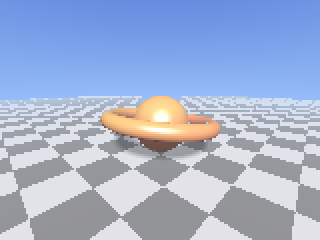
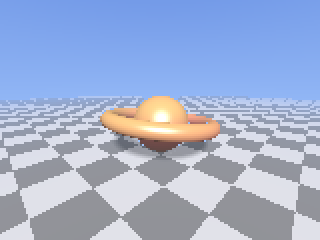
Use structs in the examples; document them
The ray marcher now does its vector math with a Vec3 struct and operators
(same speed as the hand-flattened version), the particle fountain and the
game keep their state in arrays of structs, and the playground's reference
and highlighter know about structs. The prelude drops its two-argument
length() so programs can define length(v) for their own vector types.

Codegen gains a peephole that fuses local.set x; local.get x into
local.tee x.

Claude-Session: https://claude.ai/code/session_01JN52o72BR9hMKBv8zXyzPn

Changed region(s): [[0.5625, 0.3792, 1.0, 0.4667], [0.0, 0.3792, 0.4688, 0.4667]]

diff --git a/web/index.html b/web/index.html
@@ -69,7 +69,21 @@ const N = 64;         // compile-time constant
 var grid: [int; N * N];   // arrays live at top level
 let pal = [0xff0000, 0x00ff00];
 let s = "text";       // strings: len(s), s[i] gives a byte</pre>
-        <p>Types: <code>int</code> (32-bit), <code>float</code> (64-bit), <code>bool</code>, <code>str</code>. Nothing converts silently: write <code>x as float</code>. Integer literals do adapt to floats, so <code>x * 2</code> works.</p>
+        <p>Types: <code>int</code> (32-bit), <code>float</code> (64-bit), <code>bool</code>, <code>str</code>, and your own structs. Nothing converts silently: write <code>x as float</code>. Integer literals do adapt to floats, so <code>x * 2</code> works.</p>
+        <h3>Structs</h3>
+        <pre>struct Vec2 { x: float, y: float }
+struct Ball { pos: Vec2, vel: Vec2, color: int }
+
+var balls: [Ball; 64];          // arrays of structs
+const UP = Vec2(0.0, 1.0);      // built like a call
+
+fn length(v: Vec2) -> float { return sqrt(v.x * v.x + v.y * v.y); }
+
+var b = Ball(Vec2(10, 20), UP * 3.0, 0xff8800);
+b.pos += b.vel * dt;            // component-wise math
+balls[0] = b;                   // structs are values: this copies
+balls[0].vel.y -= 1.0;</pre>
+        <p>Structs whose fields are all floats (or all ints) support <code>+ - * / %</code> with each other and with a single number. Any struct supports <code>==</code> and <code>!=</code>. <code>print(v)</code> shows <code>Vec2(1.0, 2.0)</code>.</p>
         <h3>Control flow</h3>
         <pre>if a &lt; b { } else if c { } else { }
 while cond { break; continue; }
@@ -80,7 +94,7 @@ let m = a &gt; b ? a : b;</pre>
         <p><code>+ - * / %</code> · <code>== != &lt; &lt;= &gt; &gt;=</code> · <code>&amp;&amp; || !</code> · <code>&amp; | ^ ~ &lt;&lt; &gt;&gt; &gt;&gt;&gt;</code> · compound <code>+=</code> etc. Bitwise operators bind tighter than comparisons.</p>
         <h3>Built in</h3>
         <dl>
-          <dt>Math</dt><dd>sqrt floor ceil trunc round abs min max clamp sin cos tan asin acos atan atan2 exp log pow fract mix smoothstep sign length</dd>
+          <dt>Math</dt><dd>sqrt floor ceil trunc round abs min max clamp sin cos tan asin acos atan atan2 exp log pow fract mix smoothstep sign</dd>
           <dt>Drawing</dt><dd>pixel(x, y, c) · get_pixel(x, y) · clear(c) · rect(x, y, w, h, c) · circle(x, y, r, c) · line(x0, y0, x1, y1, c) · the <code>screen</code> array</dd>
           <dt>Color</dt><dd>rgb(r, g, b) with ints 0..255 · rgbf(r, g, b) with floats 0..1 · hsv(h, s, v) · blend(a, b, t)</dd>
           <dt>Text</dt><dd>text(x, y, s, c) · text_big(x, y, s, size, c) · number(x, y, n, c) · text_width(s) · print(a, b, ...)</dd>

diff --git a/web/highlight.js b/web/highlight.js
@@ -1,6 +1,6 @@
 // Syntax highlighting for Kiln source and WAT listings, producing HTML.
 
-const KEYWORDS = new Set(['fn', 'let', 'var', 'const', 'if', 'else', 'while', 'for', 'in', 'break', 'continue', 'return', 'true', 'false', 'as', 'export']);
+const KEYWORDS = new Set(['fn', 'let', 'var', 'const', 'if', 'else', 'while', 'for', 'in', 'break', 'continue', 'return', 'true', 'false', 'as', 'export', 'struct']);
 const TYPES = new Set(['int', 'float', 'bool', 'str']);
 
 const TOKEN = /(\/\/[^\n]*|\/\*[\s\S]*?(?:\*\/|$))|("(?:[^"\\\n]|\\.)*"?)|(0[xX][0-9a-fA-F_]*|0[bB][01_]*|\d[\d_]*(?:\.\d[\d_]*)?(?:[eE][+-]?\d+)?)|([A-Za-z_]\w*)|(\s+)|([\s\S])/g;
@@ -22,6 +22,7 @@ function kilnTokens(src) {
       if (KEYWORDS.has(ident)) cls = 'k';
       else if (TYPES.has(ident)) cls = 't';
       else if (/^[A-Z][A-Z0-9_]+$/.test(ident)) cls = 'u';
+      else if (/^[A-Z]/.test(ident)) cls = 't'; // struct names, by convention
       else if (src[TOKEN.lastIndex] === '(') cls = 'f';
     } else if (space) cls = '';
     else cls = 'p';

diff --git a/src/codegen.js b/src/codegen.js
@@ -360,6 +360,15 @@ class FnGen {
   emit(name, ...args) {
     const def = OPS[name];
     if (!def) throw new Error(`unknown opcode ${name}`);
+    // Peephole: `local.set x; local.get x` is exactly `local.tee x`.
+    const prev = this.prev;
+    if (name === 'local.get' && prev && prev.name === 'local.set' && prev.arg === args[0]) {
+      this.code.bytes[prev.pos] = OPS['local.tee'][0];
+      this.lines[prev.line] = this.lines[prev.line].replace('local.set', 'local.tee');
+      this.prev = null;
+      return;
+    }
+    this.prev = { name, arg: args[0], pos: this.code.length, line: this.lines.length };
     if (name === 'end' || name === 'else') this.depth--;
     let text = name;
     for (const part of def) {

diff --git a/src/prelude.js b/src/prelude.js
@@ -209,10 +209,6 @@ fn sign(x: float) -> float {
   return x > 0.0 ? 1.0 : (x < 0.0 ? -1.0 : 0.0);
 }
 
-fn length(x: float, y: float) -> float {
-  return sqrt(x * x + y * y);
-}
-
 // ---- deterministic randomness
 
 fn hash(n: int) -> int {

diff --git a/README.md b/README.md
@@ -2,7 +2,7 @@
 
 **A tiny statically typed language that compiles straight to WebAssembly, with a live-coding pixel playground.**
 
-Kiln's compiler is under 3,000 lines of dependency-free JavaScript. It lexes, parses, type-checks and
+Kiln's compiler is about 3,300 lines of dependency-free JavaScript. It lexes, parses, type-checks and
 then writes the WebAssembly binary *byte by byte*: no LLVM, no Binaryen, no `wat2wasm`. It is fast
 enough to recompile on every keystroke, so the playground feels like a fantasy console: type
 code on the left and watch it run at native speed on a 320×240 screen on the right.
@@ -89,7 +89,7 @@ fn main() {
 }
 ```
 
-- **Types:** `int` (i32), `float` (f64), `bool`, `str`, plus fixed-size global arrays of `int`, `float` or `bool`.
+- **Types:** `int` (i32), `float` (f64), `bool`, `str`, structs, and fixed-size global arrays of any of those except `str`.
 - **No silent conversions.** `int + float` is an error that suggests `as float`. One concession for
   comfort: integer *literals* (and untyped integer constants) adapt to float context, so `x * 2` works when `x` is a float.
 - **`let` is immutable, `var` is mutable.** Assigning to a `let` is a compile error with a fix-it hint.
@@ -101,6 +101,58 @@ fn main() {
 - **The standard prelude is written in Kiln** ([`src/prelude.js`](src/prelude.js)): `pixel`, `rect`, `circle`, Bresenham
   `line`, `hsv`, `blend`, a 3×5 bitmap font for `text` and `number`, integer `hash`, value `noise` and `fbm`.
   It's compiled together with your program, and whatever you don't use is stripped.
+
+### Structs
+
+```rust
+struct Vec2 { x: float, y: float }
+struct Ball { pos: Vec2, vel: Vec2, color: int }
+
+const GRAVITY = Vec2(0.0, 260.0);   // constructed like a call, folded at compile time
+var balls: [Ball; 100];             // arrays of structs
+
+fn length(v: Vec2) -> float { return sqrt(v.x * v.x + v.y * v.y); }
+
+fn step(dt: float) {
+  for i in 0..len(balls) {
+    var b = balls[i];               // structs are values: this is a copy
+    b.vel += GRAVITY * dt;          // component-wise math
+    b.pos += b.vel * dt;
+    if b.pos.y > 239.0 { b.vel.y *= -0.8; }
+    balls[i] = b;                   // write it back
+  }
+}
+```
+
+- Structs are **values**, like numbers: assigning or passing one copies it. There are no pointers and no heap.
+- Structs whose fields are all floats (or all ints) get **component-wise** `+ - * / %`, with each other or with a
+  single number on either side, GLSL-style. Any struct supports `==` and `!=`.
+- `print(v)` shows a struct the way you'd construct it: `Ball(Vec2(1.0, 2.0), Vec2(0.0, 0.0), 16746496)`.
+
+Under the hood, a struct is **flattened into its scalar fields**. A `Vec2` local is two wasm locals, a `Vec2` parameter
+is two wasm parameters, and a function returning one uses wasm's multi-value returns. So vector math costs exactly what
+the scalar version would. This function:
+
+```rust
+export fn add(a: Vec2, b: Vec2) -> Vec2 { return a + b; }
+```
+
+compiles to two additions, with no memory traffic and no temporaries:
+
+```wasm
+(func $add (export "add") (param $a.x f64) (param $a.y f64) (param $b.x f64) (param $b.y f64) (result f64 f64)
+  local.get $a.x
+  local.get $b.x
+  f64.add
+  local.get $a.y
+  local.get $b.y
+  f64.add
+  return
+)
+```
+
+Arrays of structs are laid out in linear memory with natural alignment, and `balls[i].vel.y` compiles to one bounds
+check plus a single `f64.load` at a constant offset.
 
 ### Friendly errors
 
@@ -132,6 +184,7 @@ source ──lex──▶ tokens ──parse──▶ AST ──check──▶ t
 | [`src/lexer.js`](src/lexer.js) | Tokens with spans; hex/binary/underscored literals, escapes, block comments |
 | [`src/parser.js`](src/parser.js) | Recursive descent for statements, precedence climbing for expressions |
 | [`src/checker.js`](src/checker.js) | Name resolution, type inference and checking, constant folding, definite-return analysis, call graph |
+| [`src/types.js`](src/types.js) | Struct flattening and memory layout |
 | [`src/codegen.js`](src/codegen.js) | Emits wasm instructions and a matching WAT listing side by side; strips dead code |
 | [`src/wasm.js`](src/wasm.js) | LEB128, section encoding, the opcode table |
 | [`src/prelude.js`](src/prelude.js) | The standard library, in Kiln |
@@ -146,6 +199,8 @@ A few details I enjoyed:
 - **Dead code elimination falls out of the checker.** Each function records what it calls and which globals, arrays
   and imports it touches. Codegen walks that graph from `main`/`frame`/exports, so the plasma example ships 5 functions
   and strips the other 22, and imports only the 3 host functions it uses (`sin`, `cos`, and the trap hook).
+- **Fields are places, not values.** Codegen resolves `a.b.c` and `arr[i].pos.x` to a *place* (a run of locals, a run of
+  globals, or a base address plus a constant offset) and loads or stores only the leaves it needs.
 - **Arrays use the memarg offset.** `grid[i]` compiles to `i32.load offset=<grid's address>` with the scaled index on the
   stack, after a single unsigned compare for the bounds check (which also catches negative indices).
 - **Traps know where they came from.** Bounds and division checks call an imported `__trap(site, value)`; the site
@@ -184,7 +239,7 @@ Here's `fib` as the compiler emits it (from the playground's WebAssembly tab):
 ## Development
 
 ```sh
-npm test           # 35 tests: language semantics, error messages, runtime traps, every example, the build
+npm test           # 49 tests: language semantics, structs, error messages, runtime traps, every example, the build
 npm run build      # dist/index.html
 npm run serve      # build + serve on :8000
 ```
@@ -194,10 +249,9 @@ from the default branch (enable it under *Settings → Pages → Source: GitHub 
 
 ## Limits and ideas
 
-Kiln is deliberately small. There are no structs, closures, heap allocation, string concatenation or modules, and
-arrays can't be passed around. Natural next steps would be structs (lowered to memory or multi-value), `f32`/SIMD for
-faster shading, a register-allocating pass to reuse locals, sound via an audio worklet, and source maps from wasm
-offsets back to lines.
+Kiln is deliberately small. There are no closures, methods, generics, heap allocation, string concatenation or
+modules; arrays are global and can't be passed around. Natural next steps would be sound via an audio worklet,
+`f32`/SIMD for faster shading, a pass that reuses locals, and source maps from wasm offsets back to lines.
 
 ## License
 
